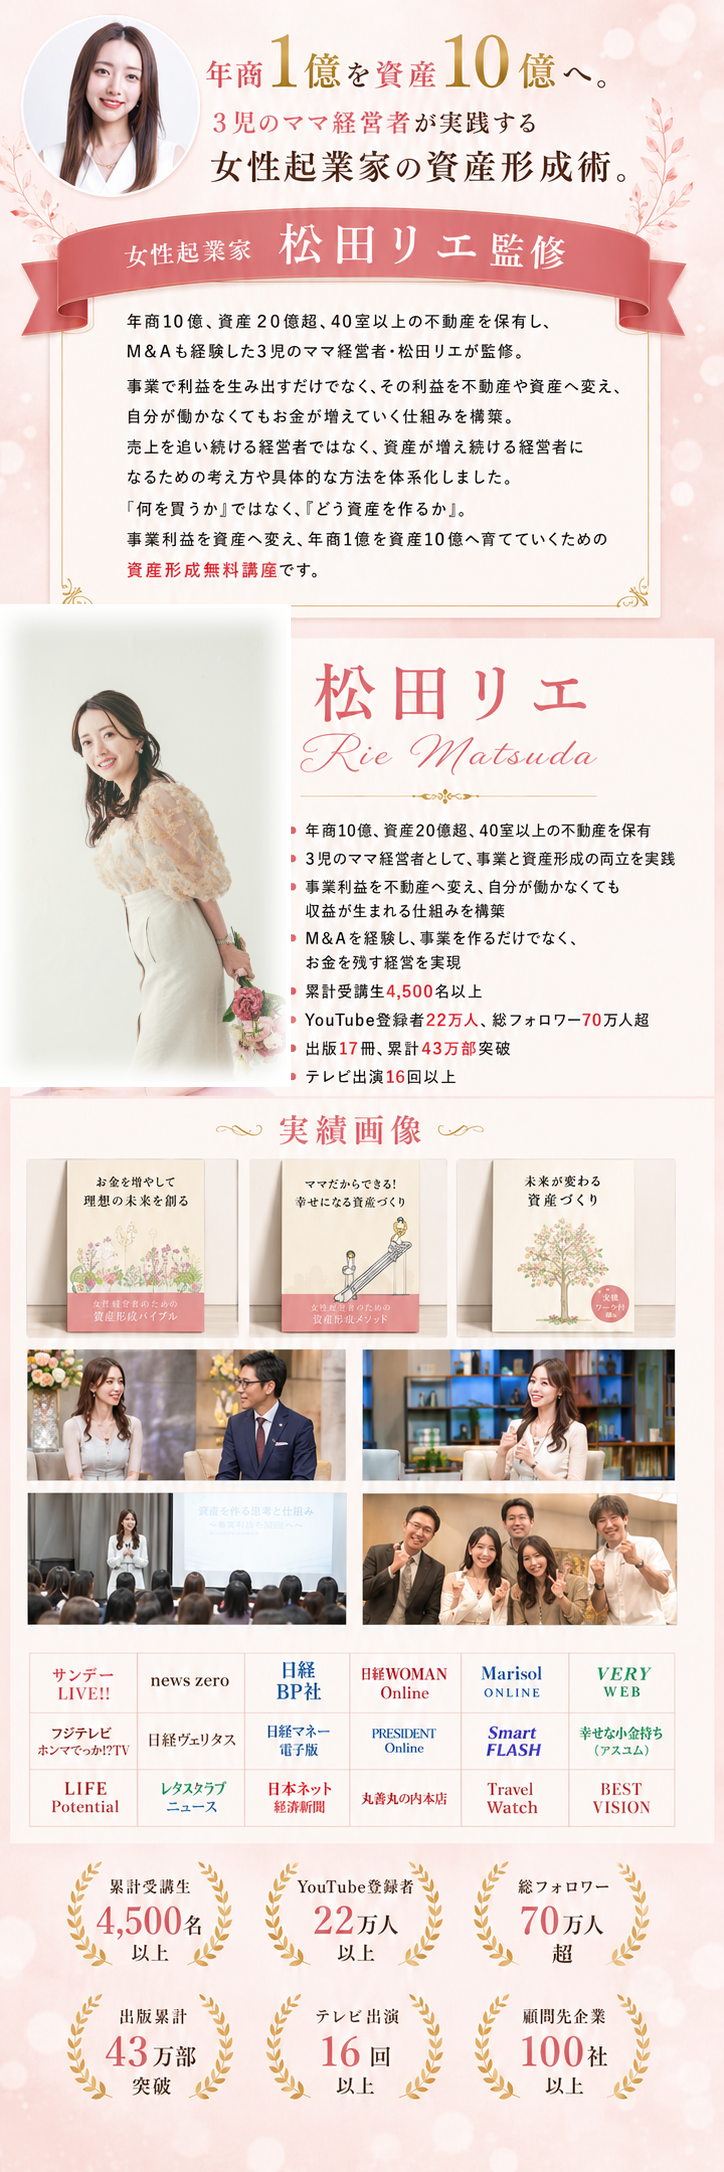
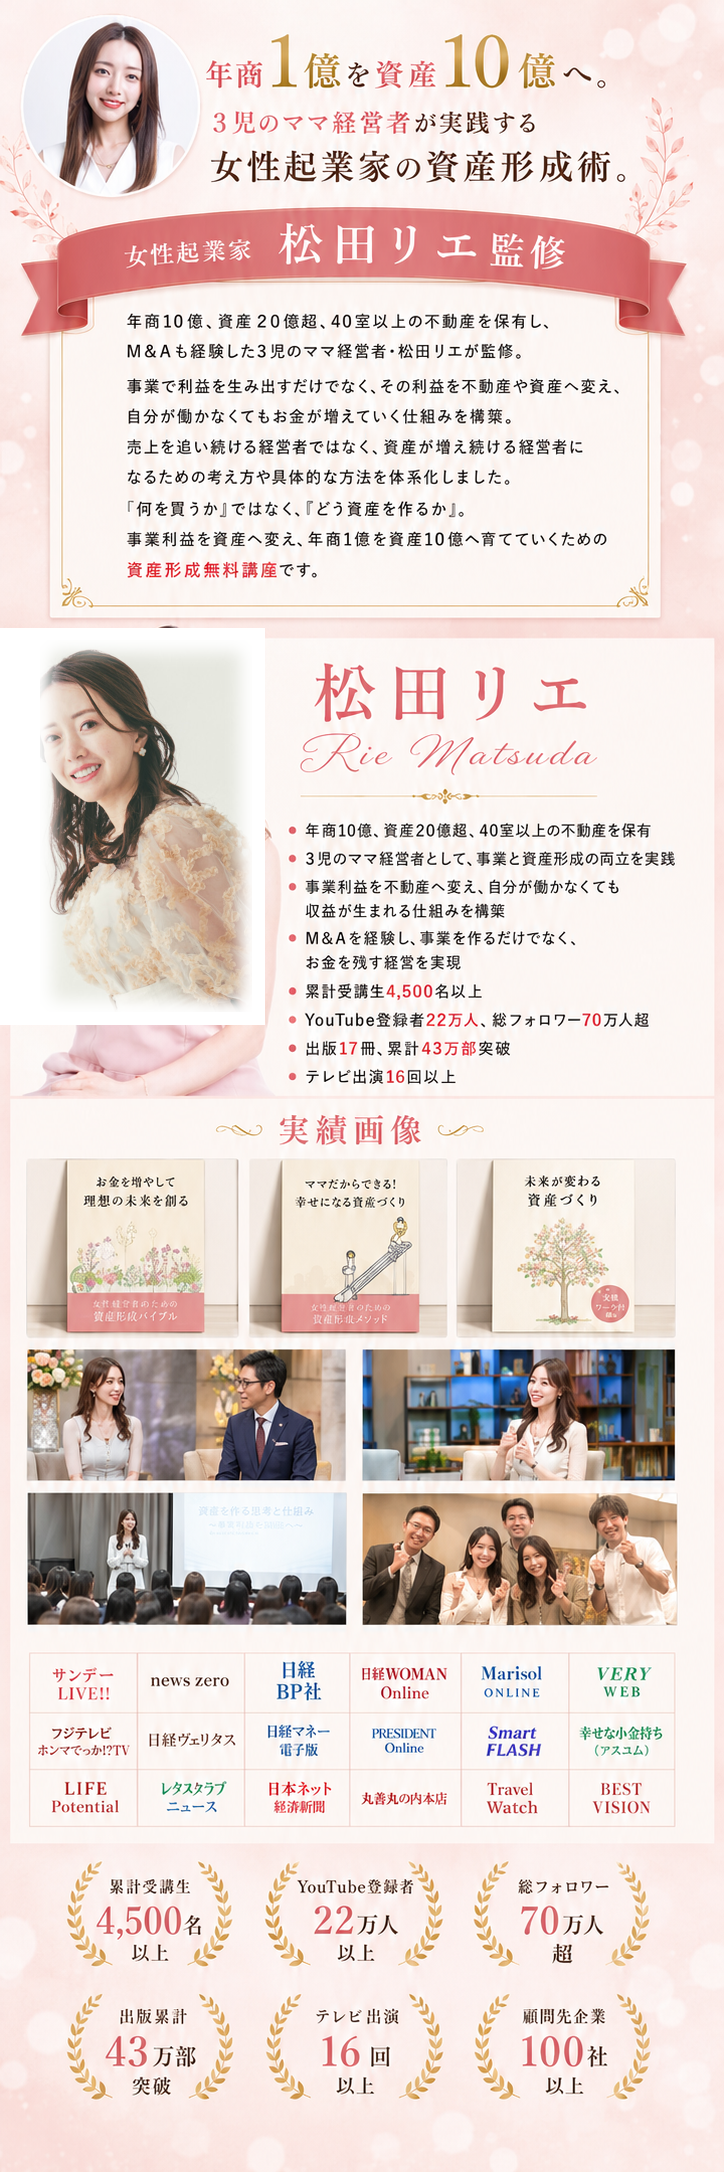
プロフィール写真を元サイズに合わせて縮小・再合成

Changed region(s): [[0.0, 0.2776, 0.395, 0.5244], [0.0, 0.4936, 0.0304, 0.5244]]

diff --git a/index.html b/index.html
@@ -960,7 +960,7 @@ footer .f-copy{margin-top:14px;font-size:12px;opacity:.95;}
 
   <!-- ============ 7. 監修者セクション ============ -->
   <section class="kanshu">
-    <img class="profile-img" src="images/profile-main.png?v=3" alt="年商1億を資産10億へ。3児のママ経営者が実践する女性起業家の資産形成術。女性起業家 松田リエ監修。年商10億・資産20億超・4年前は上司の不機嫌で涙／3児のママ起業家として女性のための資産の不安を解消／資産形成や節税・法人化、資産運用のサポートで個別コンサル生延べ多数／累計受講生4,500名以上／YouTube総再生7,000万・他メディア多数／書籍13冊・累計43万部に掲載／著書累計18冊出版。実績画像・メディア掲載多数。累計受講生4,500名以上／YouTube総登録者21万人以上／メディア掲載70万名突破／メルマガ読者43万名突破／メディア出演16回以上／著書累計40名突破" width="724" height="2172">
+    <img class="profile-img" src="images/profile-main.png?v=4" alt="年商1億を資産10億へ。3児のママ経営者が実践する女性起業家の資産形成術。女性起業家 松田リエ監修。年商10億・資産20億超・4年前は上司の不機嫌で涙／3児のママ起業家として女性のための資産の不安を解消／資産形成や節税・法人化、資産運用のサポートで個別コンサル生延べ多数／累計受講生4,500名以上／YouTube総再生7,000万・他メディア多数／書籍13冊・累計43万部に掲載／著書累計18冊出版。実績画像・メディア掲載多数。累計受講生4,500名以上／YouTube総登録者21万人以上／メディア掲載70万名突破／メルマガ読者43万名突破／メディア出演16回以上／著書累計40名突破" width="724" height="2172">
   </section>
 
   <!-- ============ 9-10. ビジョン〜ラスト（画像） ============ -->
